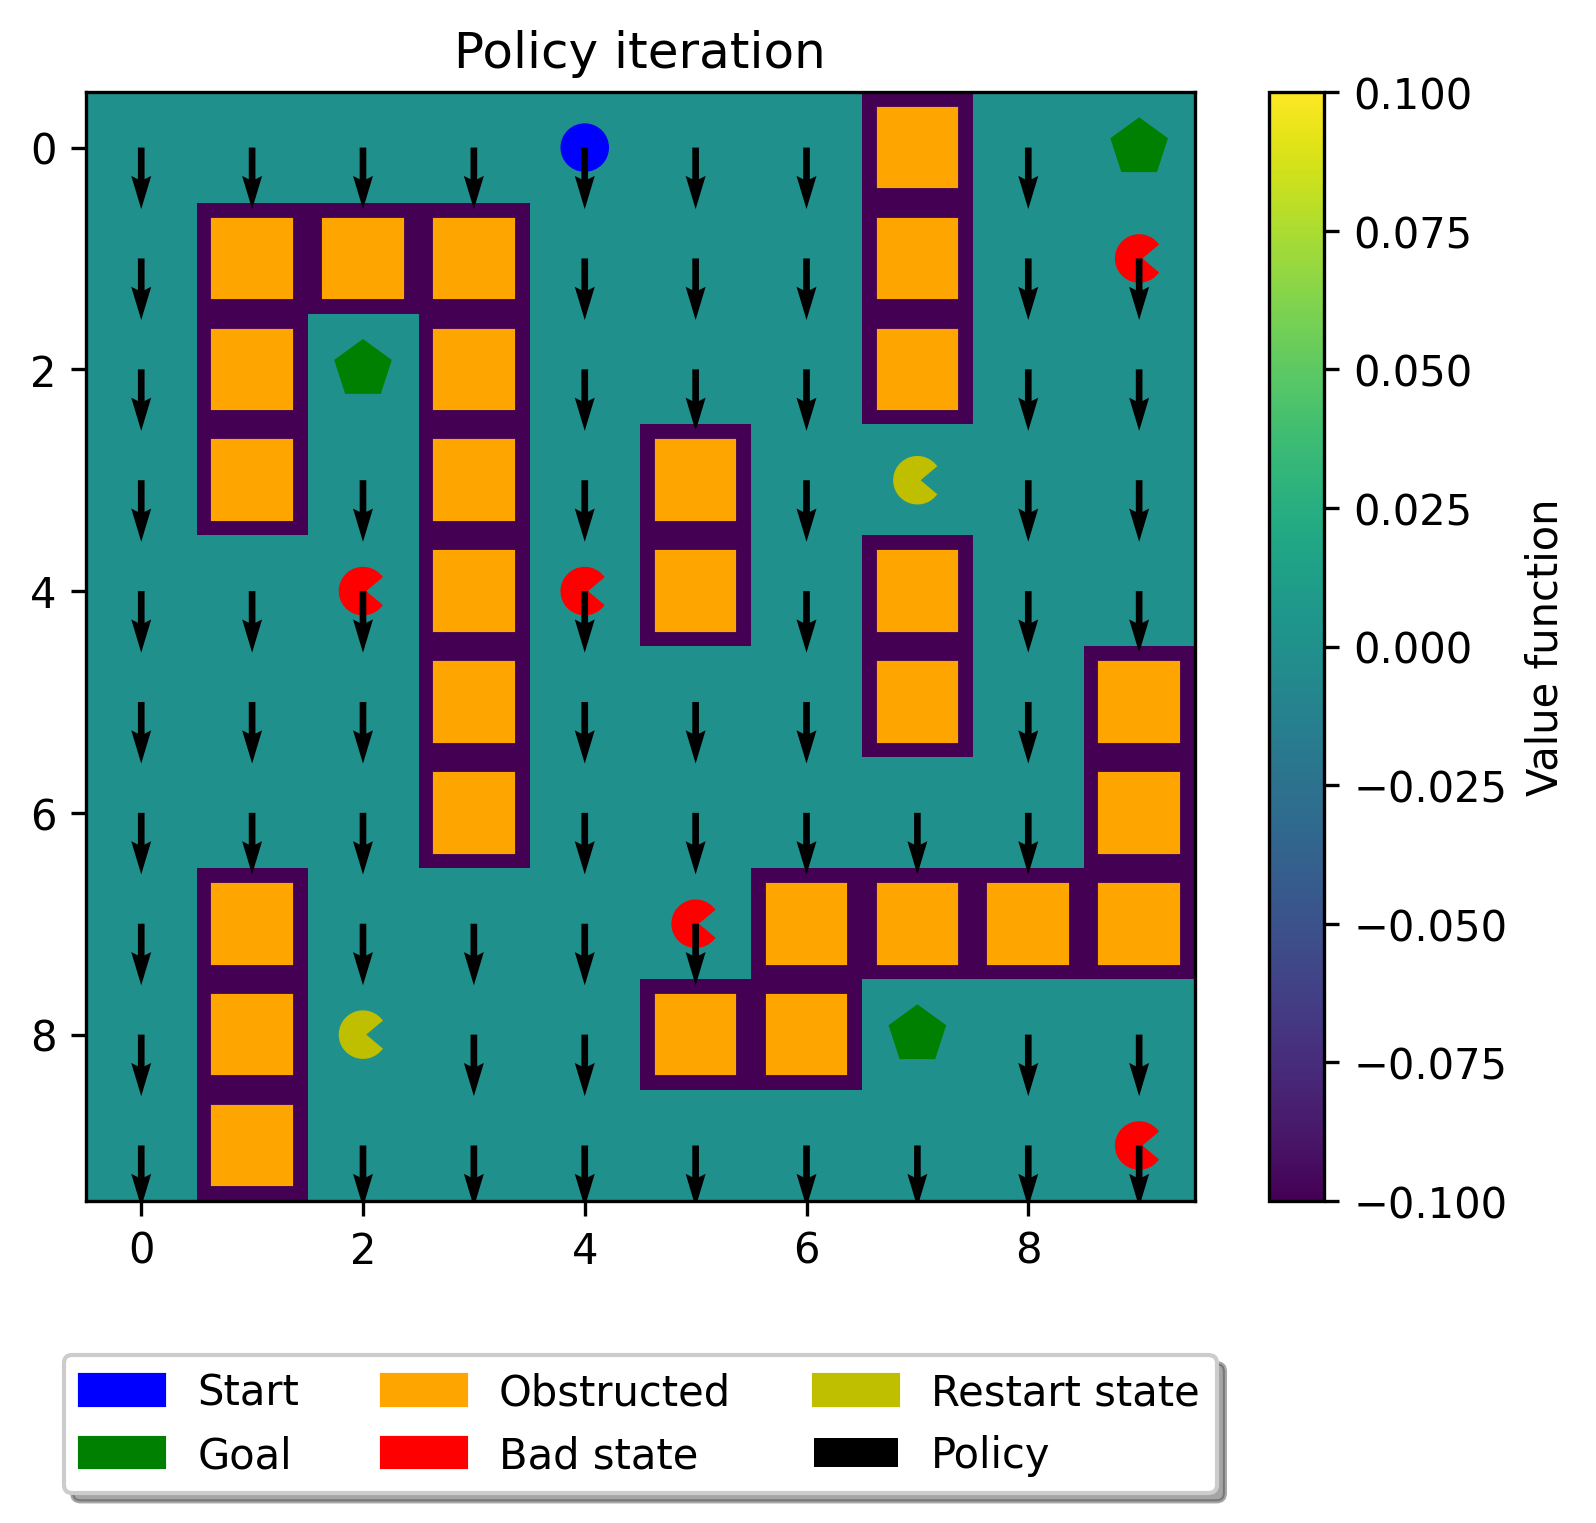
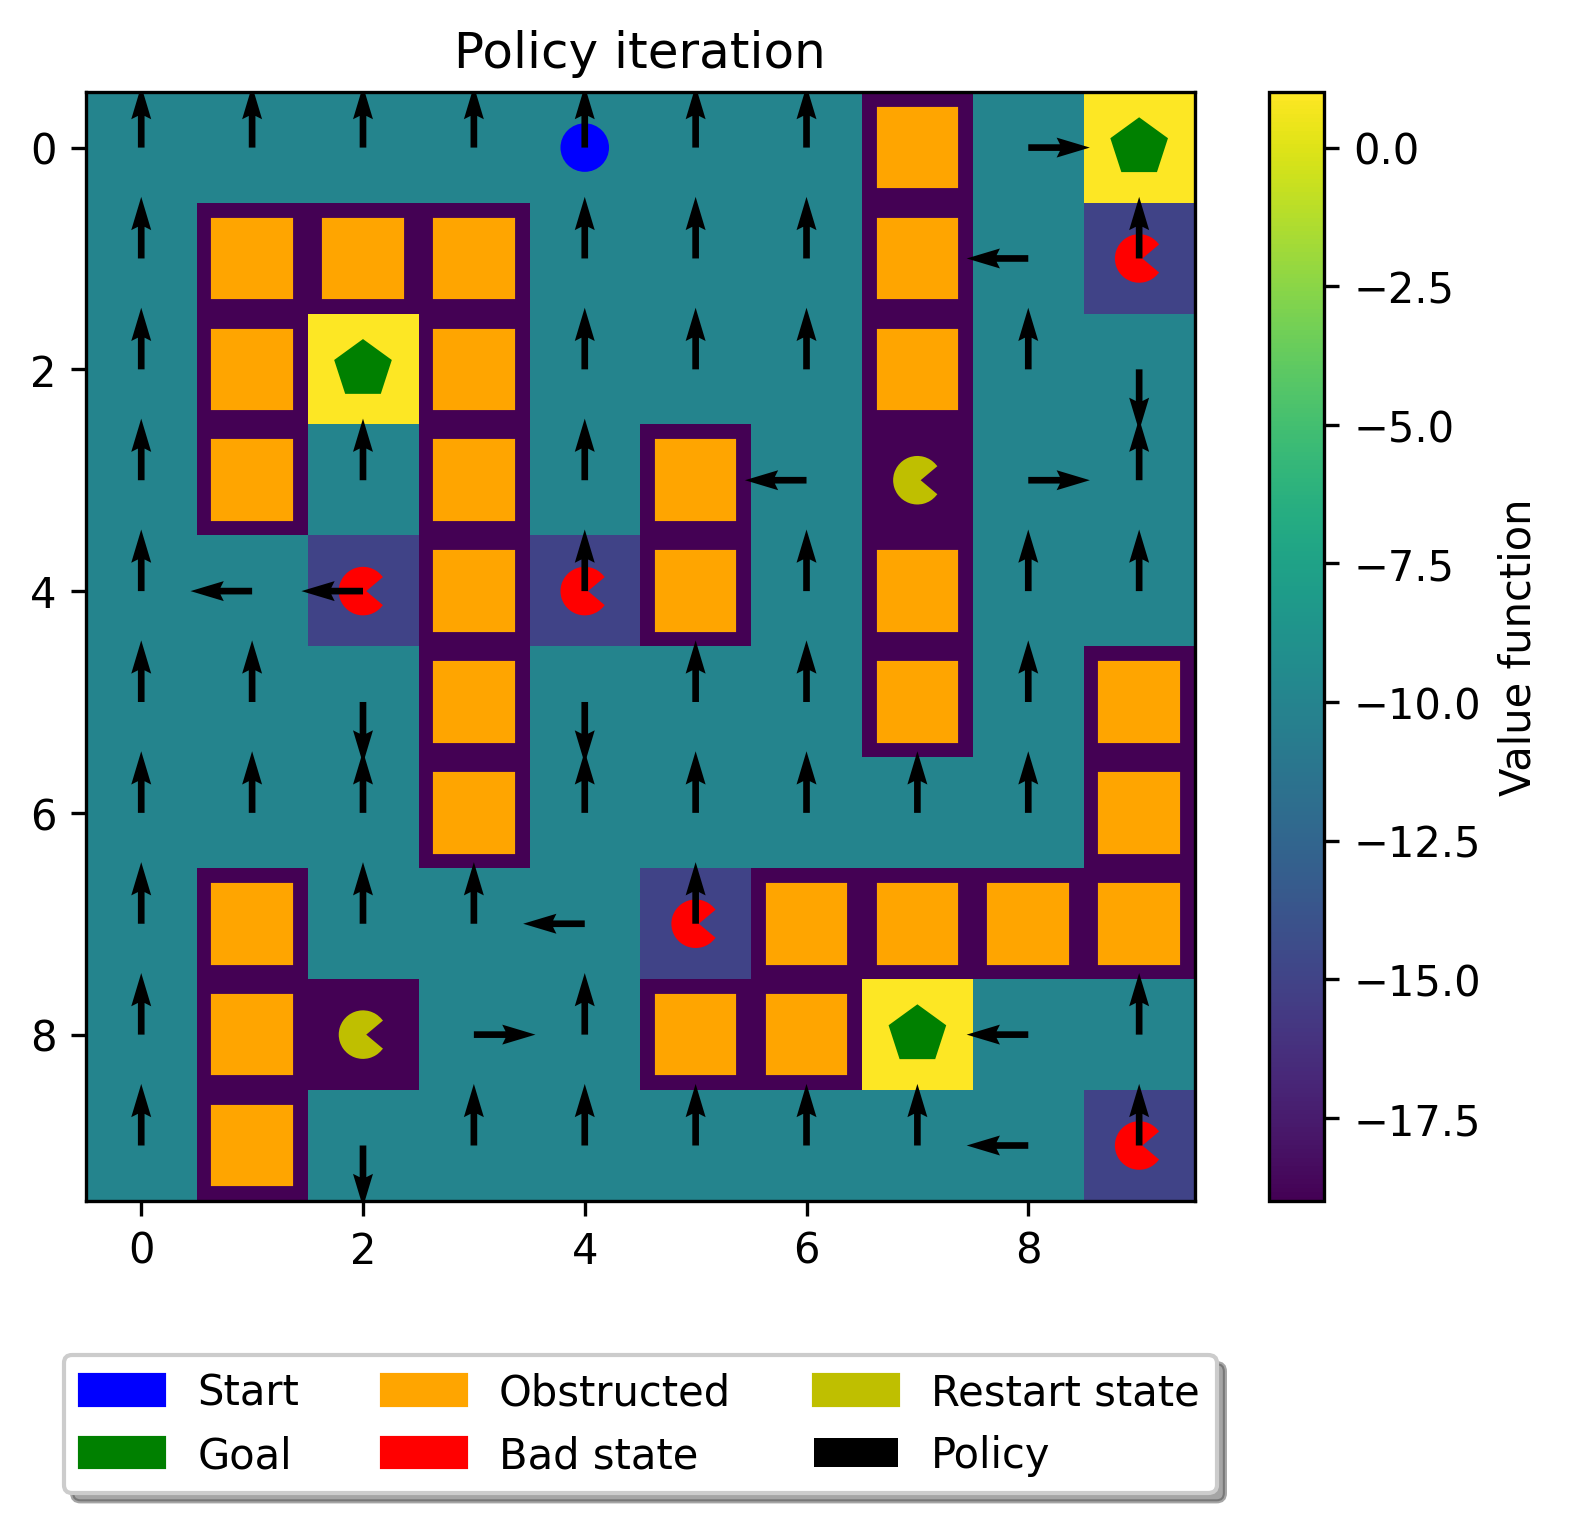
work on hw2

diff --git a/hw/hw2/algorithms/dynamic_programming.py b/hw/hw2/algorithms/dynamic_programming.py
@@ -1,4 +1,5 @@
 import numpy as np
+from rl_env.grid_world import GridWorld
 
 # global stopping criteria
 EPS = 0.001
@@ -40,14 +41,10 @@ def value_iteration(model, maxiter=100):
         # delta stores the maximum value change after update over all states, #
         # which is used to determine the convergence of VI.                   #
         #######################################################################
-
-
-
-
-
-
-
-
+        q = model.R + model.gamma * np.tensordot(model.P, val_[:, 0], axes=(1, 0))  # (101, 101, 4) x (101,) -> (101, 4).
+        new_values = q.max(axis=-1, keepdims=True)
+        delta = np.abs(new_values - val_).max()
+        val_ = new_values
         #######################################################################
         #                       END OF YOUR CODE                              #
         #######################################################################
@@ -63,17 +60,15 @@ def value_iteration(model, maxiter=100):
     # Compute the optimal policy from value function                    #
     # i.e., update pi from val_                                         #
     #####################################################################
-
-
-
-
+    q = model.R + model.gamma * np.tensordot(model.P, val_[:, 0], axes=(1, 0))  # (101, 101, 4) x (101,) -> (101, 4).
+    pi = q.argmax(axis=-1)
     #####################################################################
     #                       END OF YOUR CODE                            #
     #####################################################################
 
     return val_, pi
 
-def policy_iteration(model, maxiter):
+def policy_iteration(model: GridWorld, maxiter):
     """
     Solves the supplied environment with policy iteration.
 
@@ -96,7 +91,7 @@ def policy_iteration(model, maxiter):
         Optimal policy of the environment.
     """
     # initialize the value function and policy
-    pi = np.ones((model.num_states, 1))
+    pi = np.ones((model.num_states, 1), dtype=np.int64)
     val_ = np.zeros((model.num_states, 1))
 
     for i in range(maxiter):
@@ -111,14 +106,11 @@ def policy_iteration(model, maxiter):
         # Set "stable_policy" to False, if there is any policy update over    #
         # all states, which is used to determine the convergence of PI.       #
         #######################################################################
-
-
-
-
-
-
-
-
+        # q = R + gamma * (P @ v)
+        q = model.R + model.gamma * np.tensordot(model.P, val_[:, 0], axes=(1, 0))  # (101, 101, 4) x (101,) -> (101, 4).
+        new_policy = q.argmax(axis=-1)
+        stable_policy = (pi == new_policy).all()
+        pi = new_policy
         #######################################################################
         #                       END OF YOUR CODE                              #
         #######################################################################
@@ -130,7 +122,7 @@ def policy_iteration(model, maxiter):
 
     return val_, pi
 
-def policy_evaluation(model, val_, policy):
+def policy_evaluation(model: GridWorld, val_, policy):
     """
     Evaluates a given policy.
 
@@ -164,15 +156,11 @@ def policy_evaluation(model, val_, policy):
         # delta stores the maximum value change after update over all states, #
         # which is used to determine the convergence of policy evaluation.    #
         #######################################################################
-
-
-
-
-
-
-
-
-
+        # v = R + gamma (P @ v)
+        P_pi = model.P[np.arange(model.num_states)[:, None], :, policy][:, 0][0]  # TODO: check indexing.
+        new_vals = model.R + model.gamma * (P_pi @ val_[:, 0])
+        delta = np.abs(new_vals - val_).max()
+        val_ = new_vals
         #######################################################################
         #                       END OF YOUR CODE                              #
         #######################################################################
